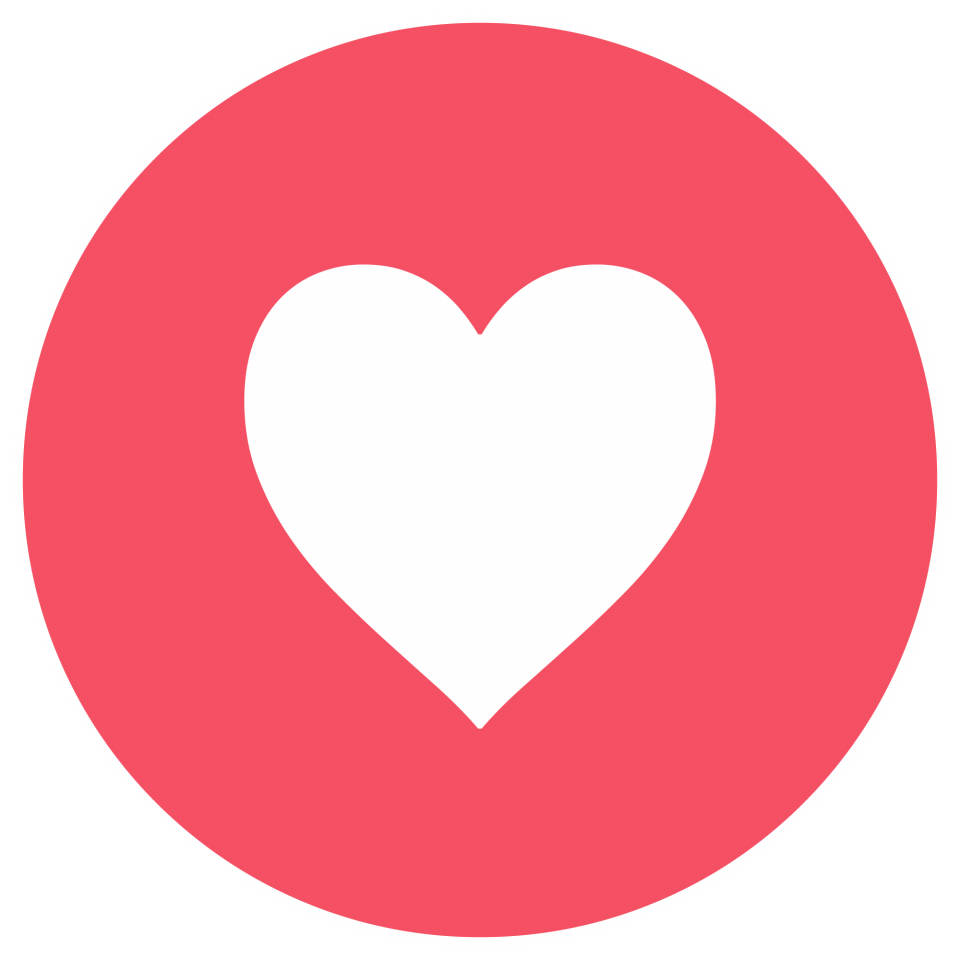
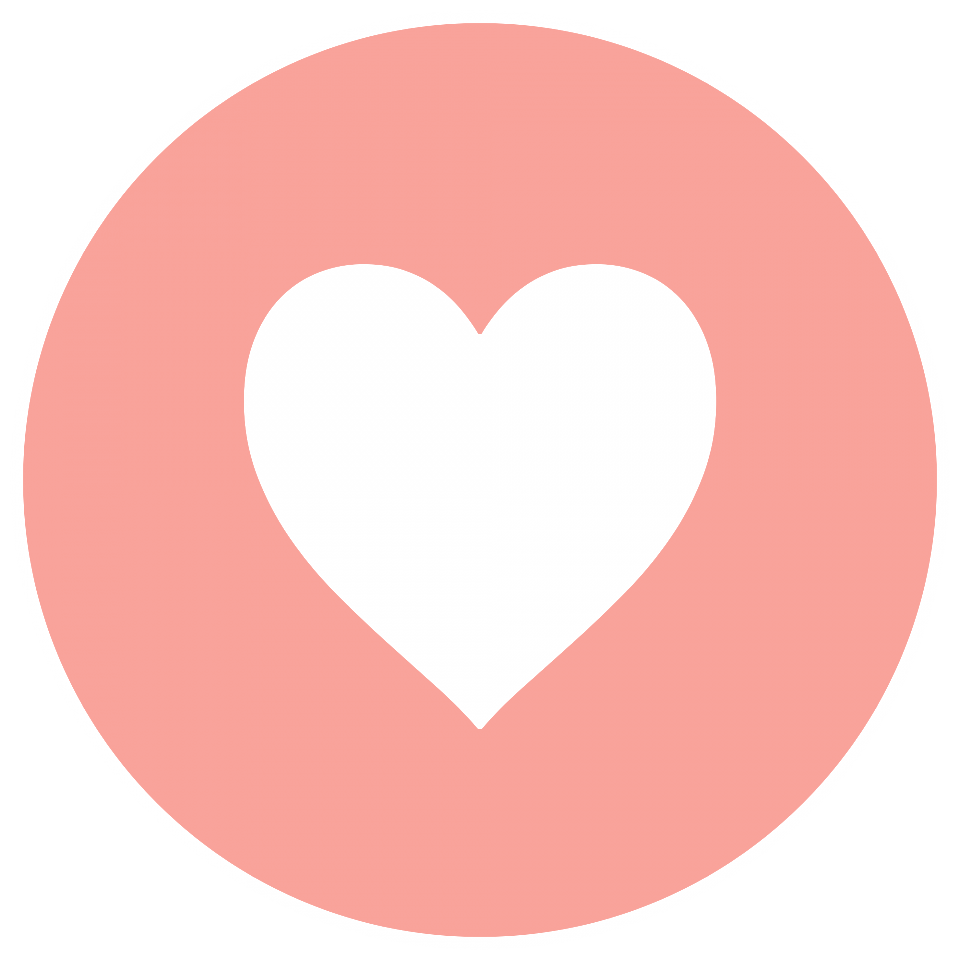
added base functional

diff --git a/screens/LoginScreen.js b/screens/LoginScreen.js
@@ -1,29 +1,66 @@
-import React from 'react';
+import React, { useEffect, useState } from 'react';
 import {
   Text, View, TextInput, Image, Button, StyleSheet,
 } from 'react-native';
+import AsyncStorage from '@react-native-community/async-storage';
 
 import MainHeartIcon from '../images/main-heart.png';
+import MariaLogoIcon from '../images/maria-logo.png';
+import { useFirestoreContext } from '../context/firestore-context';
 
-export const LoginScreen = ({ navigation }) => (
-  <View style={styles.container}>
-    <Image
-      style={styles.image}
-      source={MainHeartIcon}
-    />
-    <Text style={styles.title}>
-      Введите ключ своей половинки:
-    </Text>
-    <TextInput style={styles.input} />
-    <Button
-      color="#F55064"
-      title="Соединиться"
-      onPress={() => {
-        navigation.navigate('Home');
-      }}
-    />
-  </View>
-);
+export const LoginScreen = ({ navigation }) => {
+  const firestoreData = useFirestoreContext();
+  const [status, setStatus] = useState(true);
+  const [token, setToken] = useState('');
+  function onSubmitToken() {
+    let flag = false;
+    setStatus('Подключение...');
+    firestoreData.get()
+      .then((res) => {
+        res.forEach((doc) => {
+          if (doc.id === token) {
+            flag = true;
+          }
+        });
+        if (flag) {
+          setToken('');
+          setStatus('');
+          navigation.navigate('Home', { collection: firestoreData.doc(token) });
+        } else {
+          setStatus('Ошибка');
+        }
+      })
+      .catch((err) => {
+        setStatus('Ошибка подключения к базе данных.');
+      })
+  }
+  return (
+    <View style={styles.container}>
+      <Image
+        source={MariaLogoIcon}
+        style={styles.imageText}
+      />
+      <Image
+        source={MainHeartIcon}
+        style={styles.imageLogo}
+      />
+      <Text style={styles.title}>Введите ключ своей половинки:</Text>
+      <TextInput
+        style={styles.input}
+        onChangeText={(text) => setToken(text)}
+        value={token}
+      />
+      <Text style={styles.status}>
+        {status}
+      </Text>
+      <Button
+        color="#FF887C"
+        title="Соединиться"
+        onPress={onSubmitToken}
+      />
+    </View>
+  );
+};
 
 const styles = StyleSheet.create({
   container: {
@@ -31,38 +68,51 @@ const styles = StyleSheet.create({
     flexDirection: 'column',
     alignItems: 'center',
 
-    backgroundColor: '#FEFEFE',
+    backgroundColor: '#FFF',
   },
-  image: {
-    marginTop: '50px',
+  imageLogo: {
+    marginTop: 10,
     width: 240,
     height: 240,
   },
+  imageText: {
+    marginTop: 5,
+    marginLeft: 200,
+    width: 100,
+    height: 50,
+  },
   title: {
-    marginTop: '50px',
-    color: '#F55064',
+    marginTop: 50,
+    color: '#FF887C',
 
     fontFamily: 'Roboto',
-    fontSize: '21px',
+    fontSize: 21,
+  },
+  status: {
+    marginTop: 5,
+    marginBottom: 25,
+
+    color: '#FF887C',
+    fontFamily: 'Roboto',
+    fontSize: 21,
   },
   input: {
-    width: '300px',
-    height: '50px',
-    paddingLeft: '10px',
+    width: 300,
+    height: 50,
+    paddingLeft: 10,
 
-    marginTop: '10px',
-    marginBottom: '25px',
-    paddingTop: '20px',
-    paddingBottom: '20px',
-    borderColor: '#F55064',
+    marginTop: 10,
+    paddingTop: 20,
+    paddingBottom: 20,
+    borderColor: '#FF887C',
     borderLeftWidth: 2,
     borderTopWidth: 2,
     borderBottomWidth: 2,
     borderRightWidth: 2,
     borderRadius: 2,
 
-    color: '#F55064',
+    color: '#FF887C',
     fontFamily: 'Roboto',
-    fontSize: '21px',
+    fontSize: 21,
   },
 });

diff --git a/screens/HomeScreen.js b/screens/HomeScreen.js
@@ -1,38 +1,82 @@
-import React from 'react';
+import React, { useState, useEffect } from 'react';
 import {
   Text, View, Image, Button, StyleSheet,
 } from 'react-native';
 
 import MainHeartIcon from '../images/main-heart.png';
+import MariaLogoIcon from '../images/maria-logo.png';
 
-export const HomeScreen = ({ navigation }) => (
-  <View style={styles.container}>
-    <Image
-      source={MainHeartIcon}
-      style={styles.image}
-    />
-    <Text style={styles.title}>
-      Счётчик любви:
-    </Text>
-    <Text style={styles.counter}>
-      50
-    </Text>
-    <View style={styles.buttons}>
-      <Button
-        color="#F55064"
-        title="Я тебя люблю!"
+export const HomeScreen = ({ navigation, route: { params: { collection } } }) => {
+  const [isLoading, setIsLoading] = useState(true);
+  const [isError, setIsError] = useState(false);
+  const [count, setCount] = useState(0);
+  useEffect(() => {
+    collection.get()
+      .then((res) => {
+        setIsLoading(false);
+        setCount(res.data().lovesCount);
+      })
+      .catch(() => {
+        setIsLoading(false);
+        setIsError(true);
+      });
+    collection.onSnapshot((doc) => {
+      setCount(doc.data().lovesCount);
+    });
+  }, []);
+  function onAdd() {
+    collection.update({ lovesCount: count + 1 });
+  }
+  if (isLoading) {
+    return (
+      <View style={styles.statusContainer}>
+        <h1 style={{ color: '#FF887C' }}>Загрузка...</h1>
+      </View>
+    );
+  }
+  if (isError) {
+    return (
+      <View style={styles.statusContainer}>
+        <h1 style={{ color: '#FF887C' }}>Ошибка!</h1>
+      </View>
+    );
+  }
+  return (
+    <View style={styles.container}>
+      <Image
+        source={MariaLogoIcon}
+        style={styles.imageText}
       />
-      <Button
-        color="#F55064"
-        title="Изменить ключ"
-        onPress={() => {
-          navigation.navigate('Login');
-        }}
+      <Image
+        source={MainHeartIcon}
+        style={styles.imageLogo}
       />
+      <Text style={styles.title}>
+        Счётчик любви:
+      </Text>
+      <Text style={styles.counter}>
+        {
+          count
+        }
+      </Text>
+      <View style={styles.buttons}>
+        <Button
+          color="#FF887C"
+          title="Я тебя люблю!"
+          onPress={onAdd}
+        />
+        <Button
+          color="#FF887C"
+          title="Изменить ключ"
+          onPress={() => {
+            navigation.navigate('Login');
+          }}
+        />
+      </View>
+
     </View>
-
-  </View>
-);
+  );
+};
 
 const styles = StyleSheet.create({
   container: {
@@ -40,31 +84,44 @@ const styles = StyleSheet.create({
     flexDirection: 'column',
     alignItems: 'center',
 
-    backgroundColor: '#FEFEFE',
+    backgroundColor: '#FFF',
   },
-  image: {
-    marginTop: '50px',
+  statusContainer: {
+    flex: 1,
+    alignItems: 'center',
+    paddingTop: 300,
+
+    backgroundColor: '#FFF',
+  },
+  imageLogo: {
+    marginTop: 10,
     width: 240,
     height: 240,
   },
+  imageText: {
+    marginTop: 5,
+    marginLeft: 200,
+    width: 100,
+    height: 50,
+  },
   title: {
-    marginTop: '25px',
-    marginBottom: '10px',
-    color: '#F55064',
+    marginTop: 25,
+    marginBottom: 10,
+    color: '#FF887C',
 
     fontFamily: 'Roboto',
-    fontSize: '21px',
+    fontSize: 21,
   },
   counter: {
-    color: '#F55064',
+    color: '#FF887C',
 
     fontFamily: 'Roboto',
-    fontSize: '96px',
+    fontSize: 96,
 
-    marginBottom: '10px',
+    marginBottom: 10,
   },
   buttons: {
     flex: 1,
     justifyContent: 'space-evenly',
-  }
+  },
 });

diff --git a/App.js b/App.js
@@ -1,4 +1,5 @@
-import React, { useEffect } from 'react';
+import React, { useState, useEffect } from 'react';
+import { StyleSheet, View } from 'react-native';
 import { NavigationContainer } from '@react-navigation/native';
 import { createStackNavigator } from '@react-navigation/stack';
 
@@ -16,24 +17,22 @@ if (!firebase.apps.length) {
 const Stack = createStackNavigator();
 
 export default function App() {
-  /* const [text, setText] = useState('');
-  userRef.get()
-    .then((res) => {
-      console.log(res.data());
-    });
-  useEffect(() => {
-    if (!firebase.apps.length) {
-      firebase.initializeApp(firebaseConfig);
-    }
-  }, []);
-  const db = firebase.firestore();
-*/
   return (
-    <NavigationContainer initialRouteName="Login">
-      <Stack.Navigator>
-        <Stack.Screen name="Login" component={LoginScreen} options={{ headerShown: false }} />
-        <Stack.Screen name="Home" component={HomeScreen} options={{ headerShown: false }} />
-      </Stack.Navigator>
-    </NavigationContainer>
+    <FirestoreContext.Provider value={firebase.firestore().collection('users')}>
+      <NavigationContainer initialRouteName="Login">
+        <Stack.Navigator>
+          <Stack.Screen name="Login" component={LoginScreen} options={{ headerShown: false }} />
+          <Stack.Screen name="Home" component={HomeScreen} options={{ headerShown: false }} />
+        </Stack.Navigator>
+      </NavigationContainer>
+    </FirestoreContext.Provider>
   );
 }
+
+const styles = StyleSheet.create({
+  container: {
+    flex: 1,
+    justifyContent: 'center',
+    alignItems: 'center',
+  },
+});
